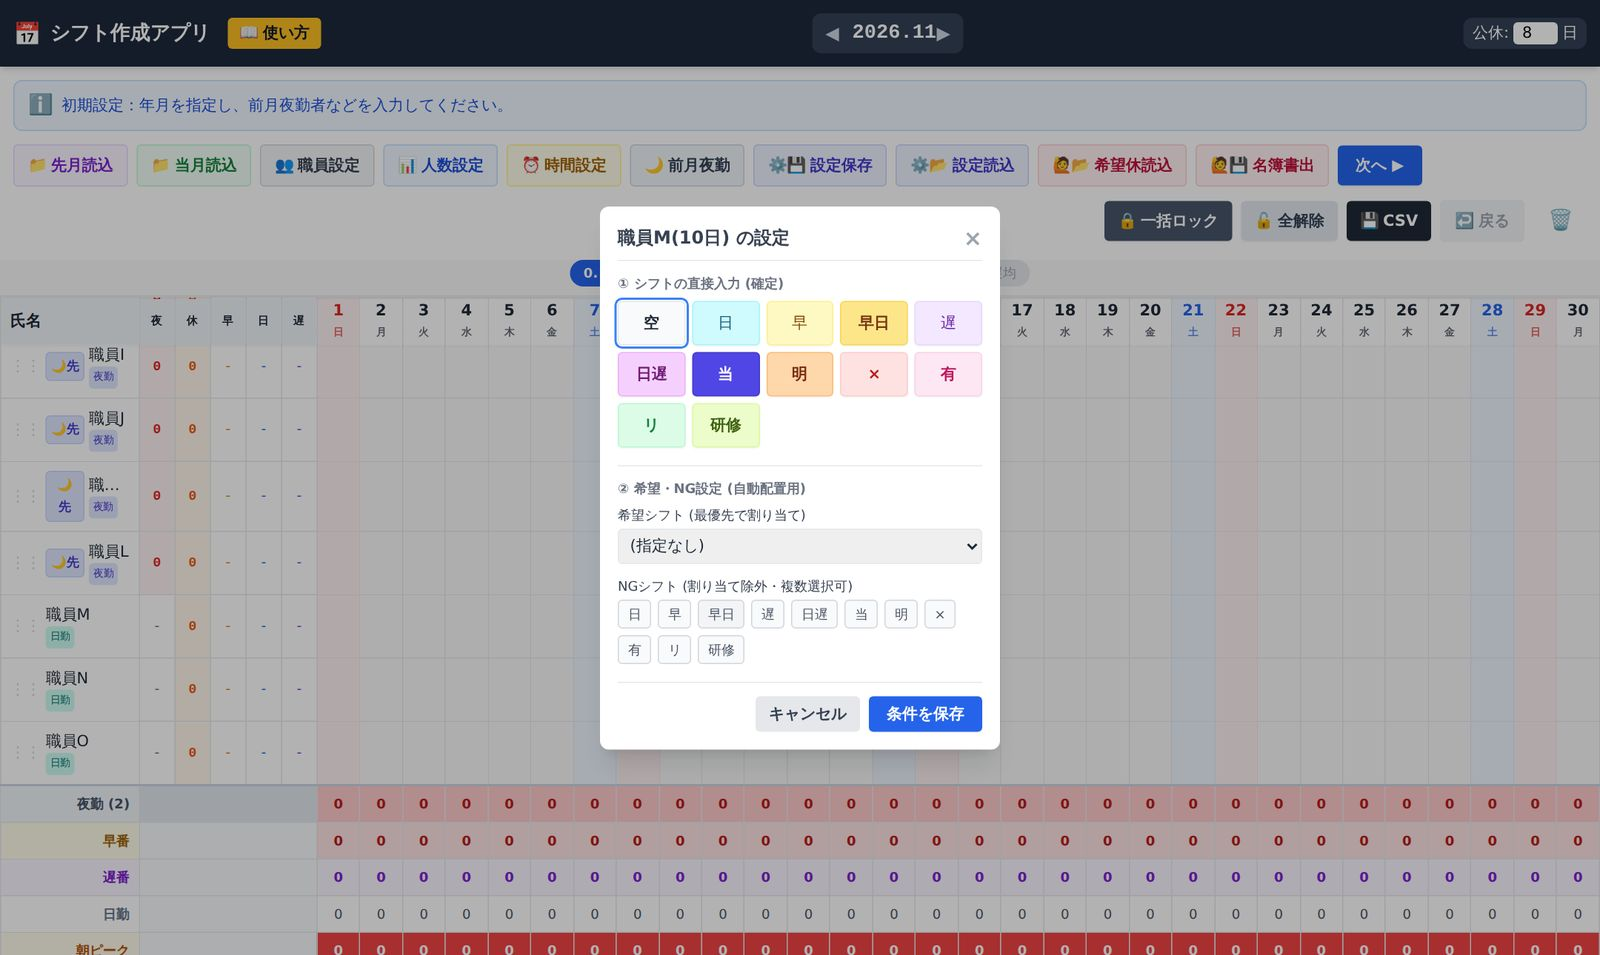
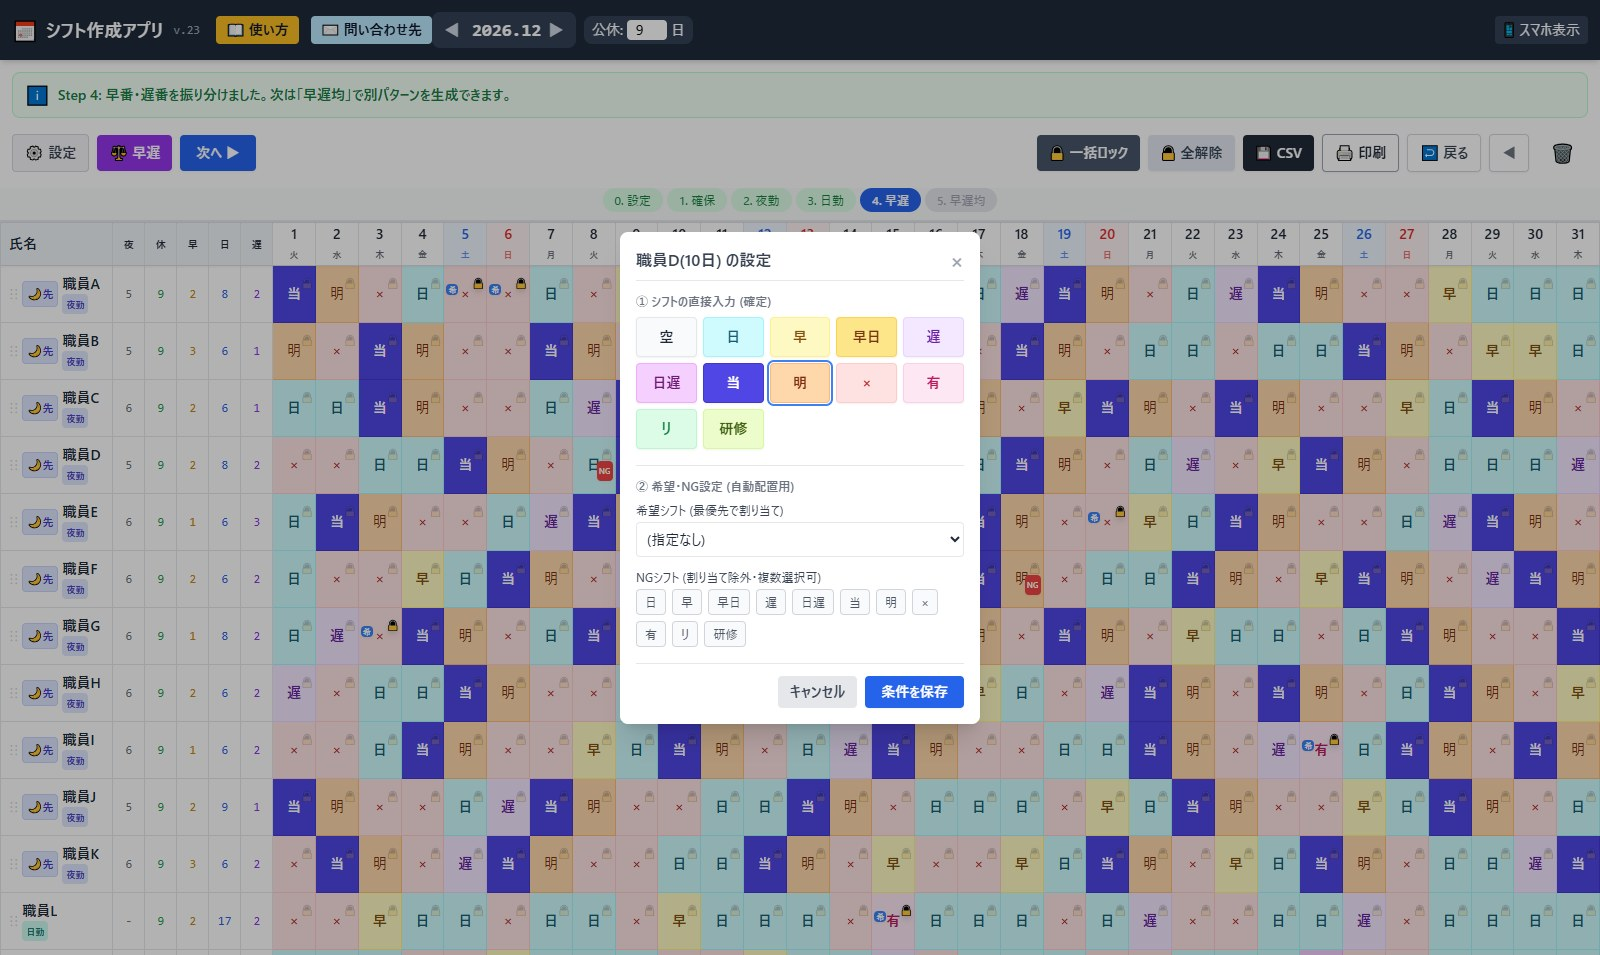
取扱説明書の画像を v.23 の画面に差し替える
- 10枚（メイン画面・職員設定・人数設定・時間設定・前月夜勤・ステップ2の後・完成例・マスの設定・赤枠の警告・時間帯の詳細）を新しい画面で撮り直し
- 「⚙ 設定」の画面と「🖨 印刷」の画面の画像を追加
- 職員設定・時間設定の説明文を新しい画面に合わせて修正（職員名はすべて架空）

diff --git a/manual.html b/manual.html
@@ -202,9 +202,10 @@
   <section id="setup">
     <h2><span class="num">5</span>最初の準備（初回のみ）</h2>
     <p>はじめに職員と必要人数を登録します。一度登録すれば、翌月からはそのまま使えます。設定は、画面上部の <span class="ui">⚙ 設定</span>（どのステップでも表示されます）を押すと出る画面から開きます（職員設定・人数設定・時間設定・前月夜勤と、設定ファイルの保存・読込）。</p>
+    <figure><img src="manual_img/settings.jpg" alt="設定の画面" loading="lazy"><figcaption><span class="ui">⚙ 設定</span> を押すと出る画面。ここから各設定を開きます。</figcaption></figure>
 
     <h3>5-1　職員設定（<span class="ui">⚙ 設定</span> → <span class="ui">👥 職員設定</span>）</h3>
-    <figure><img src="manual_img/staff.jpg" alt="職員設定の画面" loading="lazy"><figcaption>職員設定。初期状態では見本として「職員A〜C」が入っています。</figcaption></figure>
+    <figure><img src="manual_img/staff.jpg" alt="職員設定の画面" loading="lazy"><figcaption>職員設定。初期状態では見本として「職員A〜C」が入っています。上の「ユニット」で、ユニットの追加や名前の変更ができます。</figcaption></figure>
     <table>
       <tr><th>項目</th><th>内容</th></tr>
       <tr><td>名前</td><td>職員名。CSVの読み込みや希望休の取り込みでは、この名前で照合します。</td></tr>
@@ -242,7 +243,7 @@
     <div class="note"><b>夜勤に必ず1名含める職種を使うときの注意</b>対象の職員の職種を、<span class="ui">👥 職員設定</span> で正しく選んでおいてください。また、その職種の職員の夜勤回数の合計が、その月の日数（30〜31回）以上必要です。人数が少ないと、その職種の職員の夜勤回数が多くなります（例：看護師3名なら1人あたり約10回）。</div>
 
     <h3>5-3　時間と表示（<span class="ui">⚙ 設定</span> → <span class="ui">⏰ 時間設定</span>）</h3>
-    <figure><img src="manual_img/times.jpg" alt="シフト時間設定の画面" loading="lazy"><figcaption>シフト時間と、表の下に在籍人数を表示する時刻（在籍スナップショット）を設定します。</figcaption></figure>
+    <figure><img src="manual_img/times.jpg" alt="シフト時間設定の画面" loading="lazy"><figcaption>シフト時間・実働時間・公休の決め方と、表の下に在籍人数を表示する時刻（在籍スナップショット）を設定します。</figcaption></figure>
     <p>「在籍スナップショット時刻」に9時・16時などを追加すると、その時刻に勤務している人数が表の下に表示されます。「警告ライン」の人数より少ないと赤く表示されます。</p>
     <h3 id="hours">5-4　勤務時間で公休数を決める（常勤）</h3>
     <p>月の勤務時間（例：170時間以上）で公休数を決めている施設向けです。<span class="ui">⚙ 設定</span> → <span class="ui">⏰ 時間設定</span> の「公休の決め方」で「勤務時間で決める」を選びます。</p>
@@ -396,6 +397,7 @@
       <tr><td><span class="ui">⚙💾 設定保存</span></td><td>（<span class="ui">⚙ 設定</span> の中）職員・人数・時間の設定を保存します。ユニットと、ユニットごとの人数設定も含みます。</td><td>JSON</td></tr>
       <tr><td><span class="ui">⚙📂 設定読込</span></td><td>（<span class="ui">⚙ 設定</span> の中）保存した設定で上書きします。作成中のシフト表は残り、同じ名前の職員は引き継がれます。</td><td>JSON</td></tr>
     </table>
+    <figure><img src="manual_img/print.jpg" alt="印刷の画面" loading="lazy"><figcaption><span class="ui">🖨 印刷</span> の画面。左で印刷する情報を選び、右のプレビューで確認してから印刷します。</figcaption></figure>
     <div class="note"><b>CSVの形式</b>1行目が「氏名,グループ,1(日),2(月),…」、2行目以降が職員ごとの勤務です。このアプリで書き出したCSVをそのまま使うのが確実です。自分で作る場合は同じ形式にしてください。</div>
     <div class="warn"><b>個人情報の取り扱い</b>書き出したCSVや設定ファイルには、職員の実名が入っています。施設の情報管理のルールに従って保管し、インターネット上（GitHubなど）には公開しないでください。</div>
   </section>
